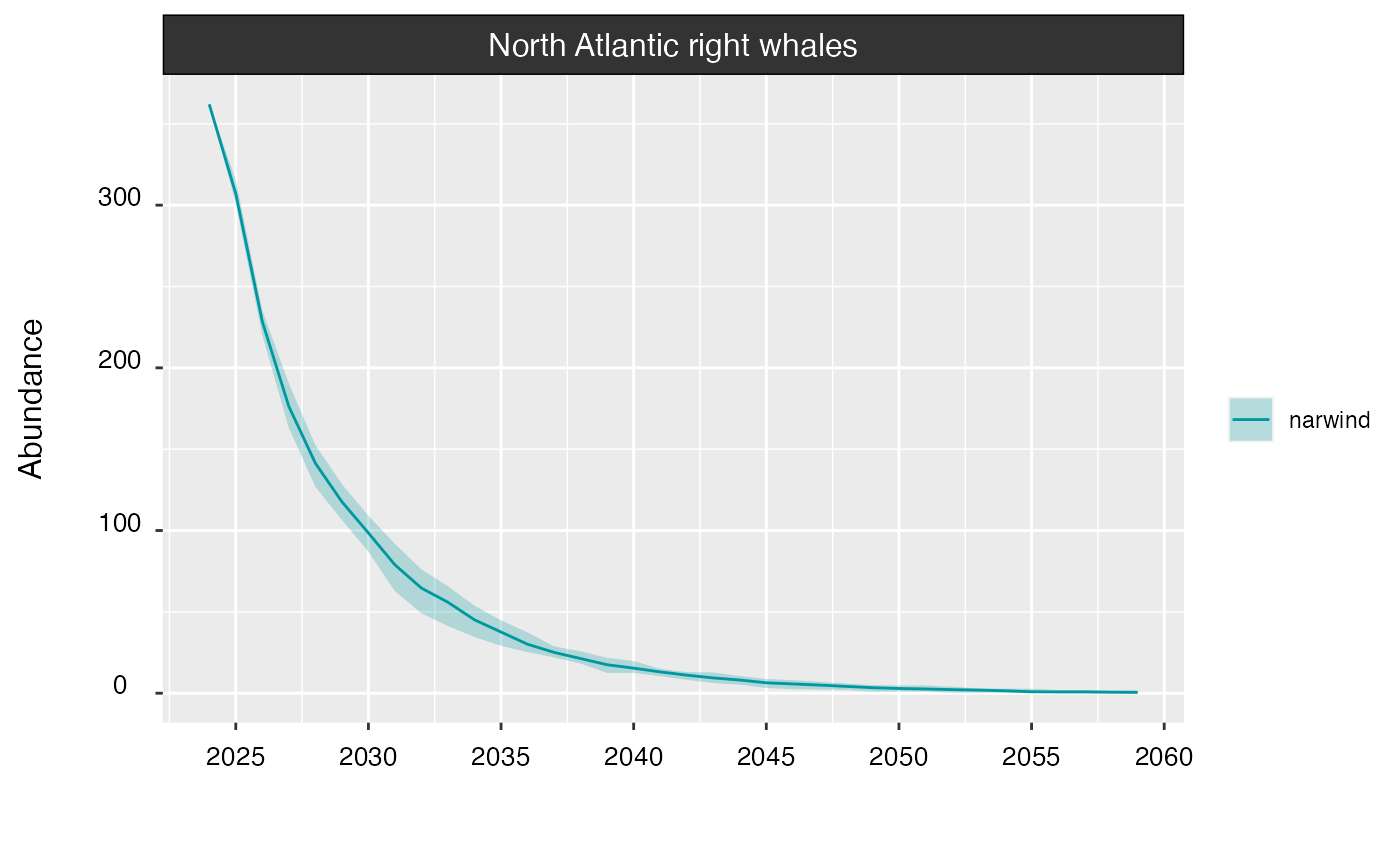
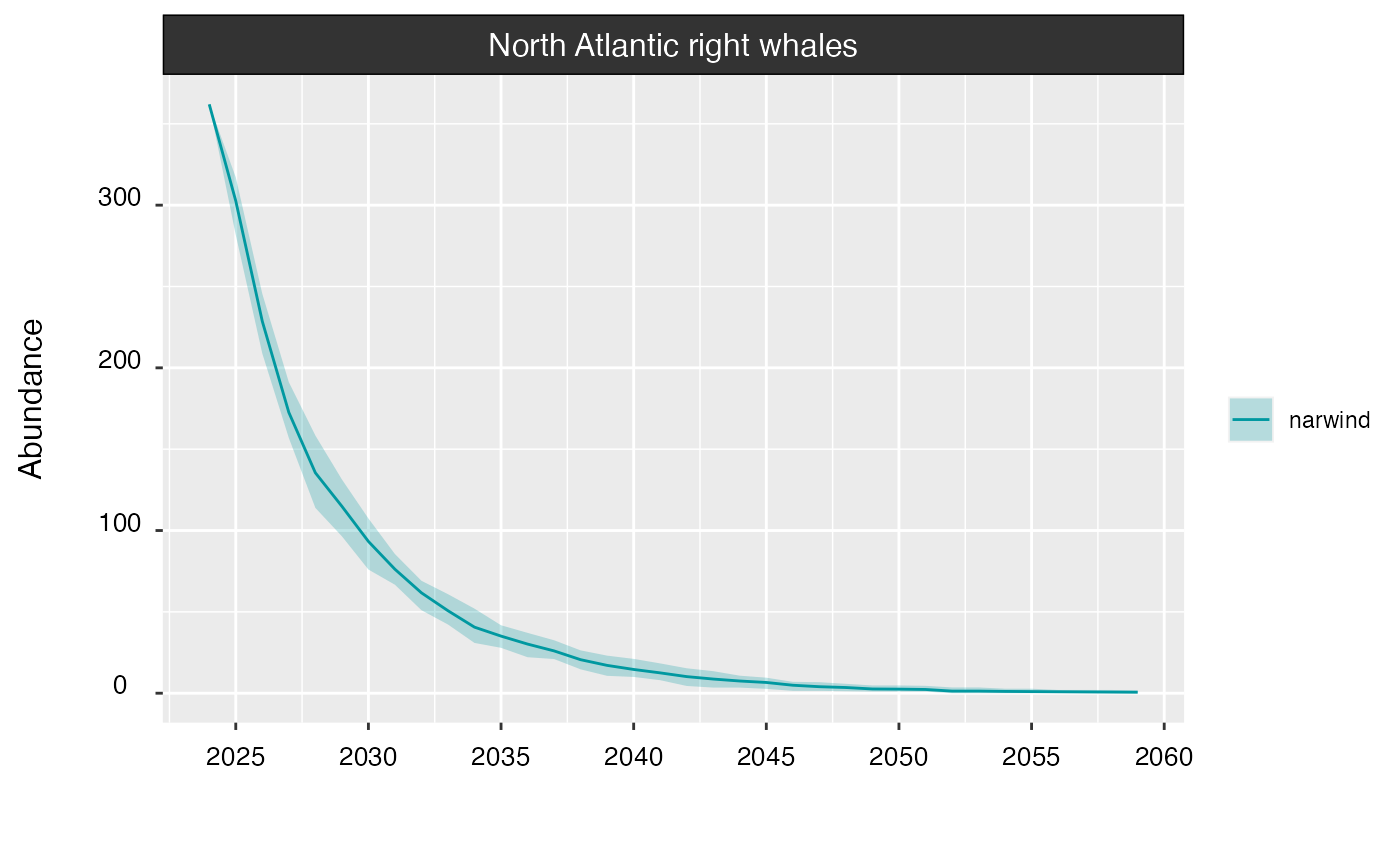
Update vignette

Changed region(s): [[0.1536, 0.1561, 0.3379, 0.7179], [0.3379, 0.7179, 0.7064, 0.8116]]

diff --git a/docs/articles/narwind.html b/docs/articles/narwind.html
@@ -1047,59 +1047,29 @@ individuals are in energetic deficit (energy balance &lt; 0) or surplus
 <span><span class="co">#&gt; </span></span>
 <span><span class="co">#&gt; +++++++++++ Mortality (by region) +++++++++++</span></span>
 <span><span class="co">#&gt; </span></span>
-<span><span class="co">#&gt; region   cause_death     ad(f,r)     ad(f,l)     ad(f,p)    ad(ml)     jv(fml)    jv(ml)     c(m,f)    </span></span>
-<span><span class="co">#&gt; -------  --------------  ----------  ----------  ---------  ---------  ---------  ---------  ----------</span></span>
-<span><span class="co">#&gt; GOM      none (female)   0.0%  (0)   0.0%  (0)   0.0% (0)   0.0% (0)   0.0% (0)   0.0% (0)   3.0%  (3) </span></span>
-<span><span class="co">#&gt; GSL      none (female)   0.0%  (0)   0.0%  (0)   0.0% (0)   0.0% (0)   0.0% (0)   0.0% (0)   3.0%  (3) </span></span>
-<span><span class="co">#&gt; SNE      none (female)   0.0%  (0)   0.0%  (0)   0.0% (0)   0.0% (0)   0.0% (0)   0.0% (0)   2.0%  (2) </span></span>
+<span><span class="co">#&gt; region   cause_death   ad(f,r)      ad(f,l)     ad(f,p)  </span></span>
+<span><span class="co">#&gt; -------  ------------  -----------  ----------  ---------</span></span>
+<span><span class="co">#&gt; CABOT    other         1.0%  (1)    1.0%  (1)   1.0% (1) </span></span>
+<span><span class="co">#&gt; GOM      other         6.0%  (6)    5.0%  (5)   8.0% (8) </span></span>
+<span><span class="co">#&gt; GSL      other         10.0% (10)   2.0%  (2)   3.0% (3) </span></span>
+<span><span class="co">#&gt; SCOS     other         0.0%  (0)    0.0%  (0)   1.0% (1) </span></span>
+<span><span class="co">#&gt; SNE      other         8.0%  (8)    6.0%  (6)   4.0% (4) </span></span>
 <span><span class="co">#&gt; </span></span>
 <span><span class="co">#&gt; </span></span>
-<span><span class="co">#&gt; region   cause_death   ad(f,r)      ad(f,l)     ad(f,p)    ad(ml)     jv(fml)    jv(ml)     c(m,f)    </span></span>
-<span><span class="co">#&gt; -------  ------------  -----------  ----------  ---------  ---------  ---------  ---------  ----------</span></span>
-<span><span class="co">#&gt; CABOT    other         1.0%  (1)    1.0%  (1)   1.0% (1)   1.0% (1)   1.0% (1)   0.0% (0)   0.0%  (0) </span></span>
-<span><span class="co">#&gt; GOM      other         6.0%  (6)    5.0%  (5)   8.0% (8)   6.0% (6)   9.0% (9)   8.0% (8)   0.0%  (0) </span></span>
-<span><span class="co">#&gt; GSL      other         10.0% (10)   2.0%  (2)   3.0% (3)   6.0% (6)   8.0% (8)   6.0% (6)   0.0%  (0) </span></span>
-<span><span class="co">#&gt; MIDA     other         0.0%  (0)    0.0%  (0)   0.0% (0)   1.0% (1)   1.0% (1)   0.0% (0)   0.0%  (0) </span></span>
-<span><span class="co">#&gt; SCOS     other         0.0%  (0)    0.0%  (0)   1.0% (1)   1.0% (1)   0.0% (0)   2.0% (2)   0.0%  (0) </span></span>
-<span><span class="co">#&gt; SEUS     other         0.0%  (0)    0.0%  (0)   0.0% (0)   0.0% (0)   0.0% (0)   1.0% (1)   0.0%  (0) </span></span>
-<span><span class="co">#&gt; SNE      other         8.0%  (8)    6.0%  (6)   4.0% (4)   7.0% (7)   3.0% (3)   5.0% (5)   0.0%  (0) </span></span>
+<span><span class="co">#&gt; region   cause_death   ad(f,r)     ad(f,l)      ad(f,p)  </span></span>
+<span><span class="co">#&gt; -------  ------------  ----------  -----------  ---------</span></span>
+<span><span class="co">#&gt; CCB      starve        0.0%  (0)   1.0%  (1)    0.0% (0) </span></span>
+<span><span class="co">#&gt; GOM      starve        0.0%  (0)   3.0%  (3)    0.0% (0) </span></span>
+<span><span class="co">#&gt; GSL      starve        0.0%  (0)   2.0%  (2)    0.0% (0) </span></span>
+<span><span class="co">#&gt; MIDA     starve        0.0%  (0)   10.0% (10)   0.0% (0) </span></span>
+<span><span class="co">#&gt; SCOS     starve        1.0%  (1)   1.0%  (1)    0.0% (0) </span></span>
+<span><span class="co">#&gt; SEUS     starve        0.0%  (0)   8.0%  (8)    0.0% (0) </span></span>
+<span><span class="co">#&gt; SNE      starve        0.0%  (0)   13.0% (13)   0.0% (0) </span></span>
 <span><span class="co">#&gt; </span></span>
 <span><span class="co">#&gt; </span></span>
-<span><span class="co">#&gt; region   cause_death      ad(f,r)     ad(f,l)     ad(f,p)    ad(ml)     jv(fml)    jv(ml)     c(m,f)    </span></span>
-<span><span class="co">#&gt; -------  ---------------  ----------  ----------  ---------  ---------  ---------  ---------  ----------</span></span>
-<span><span class="co">#&gt; CABOT    other (female)   0.0%  (0)   0.0%  (0)   0.0% (0)   0.0% (0)   0.0% (0)   0.0% (0)   1.0%  (1) </span></span>
-<span><span class="co">#&gt; GOM      other (female)   0.0%  (0)   0.0%  (0)   0.0% (0)   0.0% (0)   0.0% (0)   0.0% (0)   5.0%  (5) </span></span>
-<span><span class="co">#&gt; GSL      other (female)   0.0%  (0)   0.0%  (0)   0.0% (0)   0.0% (0)   0.0% (0)   0.0% (0)   2.0%  (2) </span></span>
-<span><span class="co">#&gt; SNE      other (female)   0.0%  (0)   0.0%  (0)   0.0% (0)   0.0% (0)   0.0% (0)   0.0% (0)   6.0%  (6) </span></span>
-<span><span class="co">#&gt; </span></span>
-<span><span class="co">#&gt; </span></span>
-<span><span class="co">#&gt; region      cause_death   ad(f,r)     ad(f,l)      ad(f,p)    ad(ml)     jv(fml)    jv(ml)     c(m,f)    </span></span>
-<span><span class="co">#&gt; ----------  ------------  ----------  -----------  ---------  ---------  ---------  ---------  ----------</span></span>
-<span><span class="co">#&gt; BOF_lower   starve        0.0%  (0)   0.0%  (0)    0.0% (0)   0.0% (0)   1.0% (1)   0.0% (0)   0.0%  (0) </span></span>
-<span><span class="co">#&gt; CCB         starve        0.0%  (0)   1.0%  (1)    0.0% (0)   0.0% (0)   0.0% (0)   0.0% (0)   0.0%  (0) </span></span>
-<span><span class="co">#&gt; GOM         starve        0.0%  (0)   3.0%  (3)    0.0% (0)   0.0% (0)   0.0% (0)   1.0% (1)   0.0%  (0) </span></span>
-<span><span class="co">#&gt; GSL         starve        0.0%  (0)   2.0%  (2)    0.0% (0)   0.0% (0)   0.0% (0)   0.0% (0)   0.0%  (0) </span></span>
-<span><span class="co">#&gt; MIDA        starve        0.0%  (0)   10.0% (10)   0.0% (0)   0.0% (0)   0.0% (0)   0.0% (0)   0.0%  (0) </span></span>
-<span><span class="co">#&gt; SCOS        starve        1.0%  (1)   1.0%  (1)    0.0% (0)   0.0% (0)   0.0% (0)   0.0% (0)   0.0%  (0) </span></span>
-<span><span class="co">#&gt; SEUS        starve        0.0%  (0)   8.0%  (8)    0.0% (0)   0.0% (0)   1.0% (1)   2.0% (2)   0.0%  (0) </span></span>
-<span><span class="co">#&gt; SNE         starve        0.0%  (0)   13.0% (13)   0.0% (0)   1.0% (1)   1.0% (1)   0.0% (0)   0.0%  (0) </span></span>
-<span><span class="co">#&gt; </span></span>
-<span><span class="co">#&gt; </span></span>
-<span><span class="co">#&gt; region   cause_death       ad(f,r)     ad(f,l)     ad(f,p)    ad(ml)     jv(fml)    jv(ml)     c(m,f)     </span></span>
-<span><span class="co">#&gt; -------  ----------------  ----------  ----------  ---------  ---------  ---------  ---------  -----------</span></span>
-<span><span class="co">#&gt; GOM      starve (female)   0.0%  (0)   0.0%  (0)   0.0% (0)   0.0% (0)   0.0% (0)   0.0% (0)   3.0%  (3)  </span></span>
-<span><span class="co">#&gt; GSL      starve (female)   0.0%  (0)   0.0%  (0)   0.0% (0)   0.0% (0)   0.0% (0)   0.0% (0)   2.0%  (2)  </span></span>
-<span><span class="co">#&gt; MIDA     starve (female)   0.0%  (0)   0.0%  (0)   0.0% (0)   0.0% (0)   0.0% (0)   0.0% (0)   10.0% (10) </span></span>
-<span><span class="co">#&gt; SCOS     starve (female)   0.0%  (0)   0.0%  (0)   0.0% (0)   0.0% (0)   0.0% (0)   0.0% (0)   1.0%  (1)  </span></span>
-<span><span class="co">#&gt; SEUS     starve (female)   0.0%  (0)   0.0%  (0)   0.0% (0)   0.0% (0)   0.0% (0)   0.0% (0)   7.0%  (7)  </span></span>
-<span><span class="co">#&gt; SNE      starve (female)   0.0%  (0)   0.0%  (0)   0.0% (0)   0.0% (0)   0.0% (0)   0.0% (0)   15.0% (15) </span></span>
-<span><span class="co">#&gt; </span></span>
-<span><span class="co">#&gt; </span></span>
-<span><span class="co">#&gt; region   cause_death   ad(f,r)     ad(f,l)     ad(f,p)    ad(ml)     jv(fml)    jv(ml)     c(m,f)    </span></span>
-<span><span class="co">#&gt; -------  ------------  ----------  ----------  ---------  ---------  ---------  ---------  ----------</span></span>
-<span><span class="co">#&gt; CABOT    strike        0.0%  (0)   0.0%  (0)   0.0% (0)   0.0% (0)   0.0% (0)   1.0% (1)   0.0%  (0) </span></span>
-<span><span class="co">#&gt; GSL      strike        0.0%  (0)   0.0%  (0)   0.0% (0)   1.0% (1)   0.0% (0)   0.0% (0)   0.0%  (0) </span></span>
-<span><span class="co">#&gt; SNE      strike        0.0%  (0)   0.0%  (0)   2.0% (2)   2.0% (2)   0.0% (0)   1.0% (1)   0.0%  (0) </span></span>
+<span><span class="co">#&gt; region   cause_death   ad(f,r)     ad(f,l)     ad(f,p)  </span></span>
+<span><span class="co">#&gt; -------  ------------  ----------  ----------  ---------</span></span>
+<span><span class="co">#&gt; SNE      strike        0.0%  (0)   0.0%  (0)   2.0% (2) </span></span>
 <span><span class="co">#&gt; </span></span>
 <span><span class="co">#&gt; </span></span>
 <span><span class="co">#&gt; +++++++++++ Pregnancies +++++++++++</span></span>
@@ -1657,7 +1627,7 @@ console during execution.</td>
 #&gt; --------------------------------------------------------------------------------
 #&gt; 
 #&gt; Date: 2024-01-31 
-#&gt; Time: 16:27:40 
+#&gt; Time: 16:40:31 
 #&gt; 
 #&gt; ––– Projections:
 #&gt; 
@@ -1756,10 +1726,10 @@ rounded down.</td>
 </tbody>
 </table>
 <div class="sourceCode" id="cb15"><pre class="downlit sourceCode r">
-<code class="sourceCode R"><span><span class="fu"><a href="https://rdrr.io/r/graphics/plot.default.html" class="external-link">plot</a></span><span class="op">(</span><span class="va">narw.preds</span><span class="op">)</span></span></code></pre></div>
-<p><img src="narwind_files/figure-html/poptrends_all-1.png" width="700"></p>
+<code class="sourceCode R"><span><span class="fu"><a href="https://rdrr.io/r/graphics/plot.default.html" class="external-link">plot</a></span><span class="op">(</span><span class="va">narw.proj</span><span class="op">)</span></span></code></pre></div>
+<p><img src="narwind_files/figure-html/poptrends-1.png" width="700"></p>
 <div class="sourceCode" id="cb16"><pre class="downlit sourceCode r">
-<code class="sourceCode R"><span><span class="fu"><a href="https://rdrr.io/r/graphics/plot.default.html" class="external-link">plot</a></span><span class="op">(</span><span class="va">narw.preds</span>, cohort <span class="op">=</span> <span class="cn">TRUE</span><span class="op">)</span></span></code></pre></div>
+<code class="sourceCode R"><span><span class="fu"><a href="https://rdrr.io/r/graphics/plot.default.html" class="external-link">plot</a></span><span class="op">(</span><span class="va">narw.proj</span>, cohort <span class="op">=</span> <span class="cn">TRUE</span><span class="op">)</span></span></code></pre></div>
 <p><img src="narwind_files/figure-html/poptrends_cohort-1.png" width="768"></p>
 </div>
 <div class="section level3">
